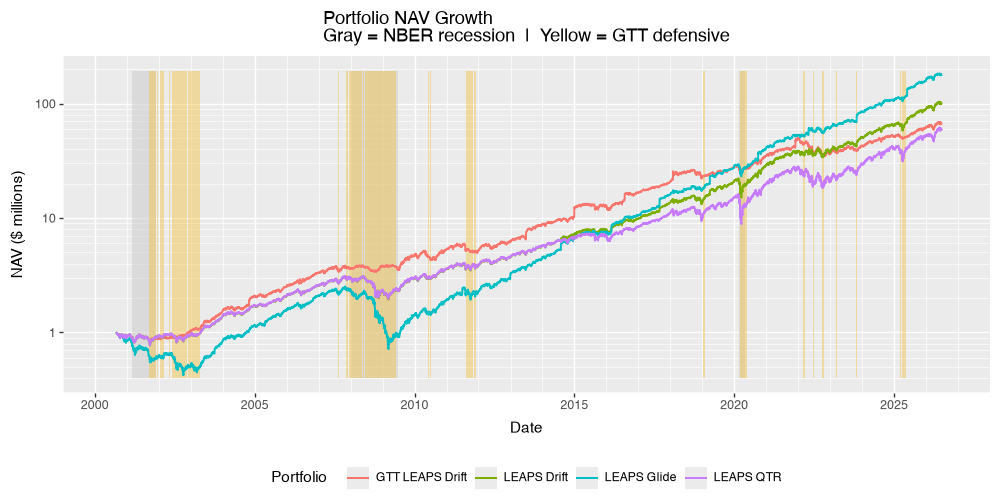
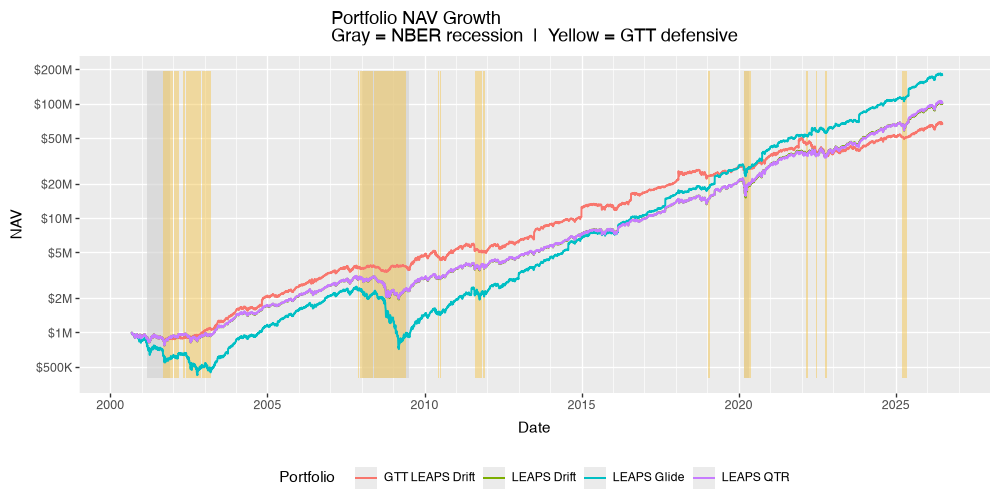
v1.3.0

diff --git a/examples/backtesting/gtt_leaps.py b/examples/backtesting/gtt_leaps.py
@@ -7,7 +7,7 @@ then prints a side-by-side-by-side performance comparison and saves a NAV growth
 to outputs/figures/gtt_comparison_nav.png.
 
 Usage:
-    uv run examples/gtt_leaps.py 2>&1 | tee outputs/gtt_example.log
+    uv run examples/backtesting/gtt_leaps.py 2>&1 | tee outputs/gtt_example.log
 
 Notes:
     - Requires FRED_API_KEY in the environment (or .env) for UNRATE data.

diff --git a/examples/backtesting/basic_gtt.py b/examples/backtesting/basic_gtt.py
@@ -6,7 +6,7 @@ then prints a side-by-side performance comparison and saves a NAV growth chart
 to outputs/figures/gtt_comparison_nav.png.
 
 Usage:
-    uv run examples/basic_gtt.py 2>&1 | tee outputs/gtt_example.log
+    uv run examples/backtesting/basic_gtt.py 2>&1 | tee outputs/gtt_example.log
 
 Notes:
     - Requires FRED_API_KEY in the environment (or .env) for UNRATE data.

diff --git a/tests/test_backtest_integration.py b/tests/test_backtest_integration.py
@@ -724,7 +724,7 @@ class TestWhipsawMultiRegime:
 _FIXTURE_PATH = "data/backtest_fixture.parquet"
 _UNRATE_PATH = "data/unrate_fixture.parquet"
 
-# Config mirrors examples/gtt_leaps.py: 6-asset portfolio with VTI_LEAPS
+# Config mirrors examples/backtesting/gtt_leaps.py: 6-asset portfolio with VTI_LEAPS
 _REAL_WEIGHTS = {
     "VTI": 0.0,
     "VXUS": 0.15,

diff --git a/README.md b/README.md
@@ -1,11 +1,31 @@
 # finance
 
+[![CI](https://github.com/alexWhitworth/finance/actions/workflows/ci.yml/badge.svg)](https://github.com/alexWhitworth/finance/actions/workflows/ci.yml)
+[![License: MIT](https://img.shields.io/badge/License-MIT-yellow.svg)](LICENSE)
+![Python 3.13+](https://img.shields.io/badge/python-3.13%2B-blue.svg)
+
 A Python library for backtesting and managing multi-asset portfolios. It includes optional
-synthetic leverage via DITM VTI LEAPS and a macro-economic based market timing signal.
+synthetic leverage via DITM VTI LEAPS and a macroeconomic market-timing signal. A live portfolio
+management layer (NAV breakdown, weight-drift, rebalance simulation, LEAPS greeks) and a LEAPS
+DCA entry-timing signal round out the toolkit for deploying and managing capital over time.
+
+## Contents
+
+- [tl;dr (for most investors)](#tldr-for-most-investors)
+- [Motivation](#motivation)
+- [Features](#features)
+- [Setup + Development](#setup--development)
+- [Usage](#usage)
+  - [Quickstart](#quickstart)
+  - [Runnable examples](#runnable-examples)
+  - [Cookbook](#cookbook)
+  - [Extensions](#extensions)
+- [References](#references)
+- [License](#license)
 
 ## tl;dr (for most investors):
 
-From extensive back tests and analyses when building this library, the following guidance
+From extensive backtests and analyses when building this library, the following guidance
 applies to most investors. When paired with the multi-asset portfolios defined in `examples/`,
 the result is handily beating standard institutional frameworks (eg. 60/40, 80/20, 
 All-Weather, etc):
@@ -15,21 +35,26 @@ All-Weather, etc):
     - `GlidepathConfig` has better terminal NAV and late-stage wealth preservation. Preferred
     for dynamic lifetime de-leveraging (multi-decade wealth generation), but suffers from
     sequence-of-returns risk
-2. Use LEAPS leverage! But solely in `AccountType.TAX_SHELTERED` accounts. There is major tax
+2. Use LEAPS leverage. But solely in `AccountType.TAX_SHELTERED` accounts. There is major tax
 drag if in `AccountType.TAXABLE`.
 3. GTT (described below) should be discarded. GTT does a great job with macro-economic market 
 drawdowns (eg. GFC), but not monetary driven ones (eg. 2022). As a result, `GttConfig` is
 dominated by a multi-asset portfolio with leveraged equity.
-    - **WHY?** Timing the market requires being correct twice -- both exit and entry timing. 
+    - **WHY?** Timing the market requires being correct twice — both exit and entry timing. 
     GTT does a decent, but imperfect, job. Secondly, properly constructed multi-asset portfolios
     do a _better job._ 
     - The core aim of diversification is finding **multiple uncorrelated assets.** If achieved,
     this outperforms market timing, especially imperfect market timing.
 
+**Evidence:** see [`outputs/backtest_summary.md`](outputs/backtest_summary.md) and
+[`outputs/gtt_findings.md`](outputs/gtt_findings.md) for the analysis behind these conclusions.
+These are working notes from the most recent research pass, not a continuously maintained
+backtest archive — rerun the [examples](#runnable-examples) against current data to reproduce.
+
 ## Motivation
 
 The library is motivated by the desire to rigorously evaluate multi-asset portfolios within 
-a "Lifecycle Investing" framework. Optionally supports market timing signal for US equities. 
+a "Lifecycle Investing" framework. It optionally supports a market-timing signal for US equities. 
 
 Multi-asset portfolio construction follows standard Modern Portfolio Theory, All-Weather, 
 and/or Risk Parity frameworks:
@@ -51,6 +76,8 @@ and/or Risk Parity frameworks:
 
 ## Features
 
+### Backtesting & Analysis
+
 - **Performance metrics:** annualized return, max drawdown, Sharpe, Sortino, Calmar, Omega ratios,
 skew, and excess-kurtosis over full period and pre-defined crisis windows (GFC, COVID, 2022 rate 
 hike)
@@ -68,15 +95,29 @@ roll with LTCG preservation, and taxable vs. tax-sheltered scenarios
     for details_)
 - **Portfolio Volatility Forecasting/Attribution:** EWMA vol (λ=0.95), 36-month rolling weekly
 correlations, per-asset contribution table summing to 1
-- **Asset Splicing** - For commonly used ETFs (eg VTI, MUB), automatic splicing the the oldest 
-available time series of the asset (e.g. VGTSX, VWITX)
+- **Asset Splicing** — For commonly used ETFs (eg. VTI, MUB), automatic splicing the oldest
+available time series of the asset (eg. VGTSX, VWITX)
+- **Portfolio Weight Optimization:** grid-search across target-weight combinations through the
+same `run_backtest` pipeline, with side-by-side performance comparison and a risk/return
+Pareto-frontier chart
 - **Growth Trend Timing (GTT):** Empirically and theoretically justifiable market timing signal
 for US Equities. 
     - Requires a FRED API Key. [Request one here](https://fred.stlouisfed.org/docs/api/api_key.html).
     - Save your API key in a `.env` file `FRED_API_KEY=<your key>` so that `dotenv` can load it
 
+### Live Portfolio Management
+
+- **Live Portfolio Management:** bridge a completed backtest into a `LivePortfolio` — or
+hand-enter brokerage holdings and LEAPS contracts directly, no backtest required — for NAV
+breakdown, per-asset weight-drift, rebalance-plan simulation (QUARTERLY/DRIFT), and LEAPS
+position greeks
+- **LEAPS DCA Entry Signal:** multi-factor composite score (RSI, Stochastic %D, IV percentile,
+MACD) for timing new DITM LEAPS deployment, producing a tranche allocation (`alpha_t`) and a
+HOLD / TRANCHE / AGGRESSIVE_SWEEP action
 
 ## Setup + Development
+
+**Requires Python 3.13+.**
 
 ```bash
 # Install:
@@ -90,7 +131,8 @@ uv run ruff check src/ tests/  # lint
 uv run mypy src/               # type-check
 ```
 
-- **98.5% line coverage · ruff clean · mypy strict clean**
+- Tests, lint, and type-checking run in CI on every push/PR (badge above); coverage floor is
+enforced at 80% (`fail_under` in `pyproject.toml`) — current coverage runs well above that.
 - **Note:** No `mutmut` tests; limited `hypothesis`. Contributions welcomed!
 
 ## Usage
@@ -118,29 +160,126 @@ print(format_performance_table(report))
 plot_nav_growth({"My Portfolio": result}, output_path=Path("outputs/figures/nav.png"))
 ```
 
-**Runnable examples** (recommended: pipe to `tee`):
+### Runnable examples
+
+**Strongly recommended:** pipe to `tee`
 
 ```bash
-uv run examples/basic_backtest.py 2>&1 | tee basic_backtest.log
+uv run examples/backtesting/basic_backtest.py 2>&1 | tee basic_backtest.log
 
-uv run examples/basic_backtest.py           # full backtest + performance table + NAV chart
-uv run examples/basic_gtt.py                # GTT signal vs. buy-and-hold comparison
-uv run examples/leaps_tax.py.               # LEAPS overlay, taxable vs. tax-sheltered
-uv run examples/volatility_report.py        # vol contribution table + forward vol forecast
-uv run examples/crisis_analysis.py          # GFC / COVID / 2022 per-period metrics
-uv run examples/gtt_leaps.py                # GTT with Leaps. All rebalance rules
-uv run examples/portfolio_opt.py            # Optimization across multiple portfolio choices
+uv run examples/backtesting/basic_backtest.py           # full backtest + performance table + NAV chart
+uv run examples/backtesting/basic_gtt.py                # GTT signal vs. buy-and-hold comparison
+uv run examples/backtesting/leaps_tax.py                # LEAPS overlay, taxable vs. tax-sheltered
+uv run examples/backtesting/volatility_report.py        # vol contribution table + forward vol forecast
+uv run examples/backtesting/crisis_analysis.py          # GFC / COVID / 2022 per-period metrics
+uv run examples/backtesting/gtt_leaps.py                # GTT with Leaps. All rebalance rules
+uv run examples/backtesting/portfolio_opt.py            # Optimization across multiple portfolio choices
 
+uv run examples/portfolio_manage/backtest_bridge.py     # backtest -> LivePortfolio: NAV, drift, rebalance, greeks, vol
+uv run examples/portfolio_manage/manual_leaps_review.py # hand-entered holdings + LEAPS contracts, no backtest
+uv run examples/portfolio_manage/leaps_dca_signal.py    # LEAPS DCA entry signal + 12-month sweep
 ```
+
+### Cookbook
+
+API walkthroughs for features that are ready to use as-is — no extended rationale, just the call
+sequence. (For the research-backed design choices behind LEAPS leverage and market timing, see
+[Extensions](#extensions) below.)
+
+#### Live Portfolio Management
+
+`finance.portfolio_manager` bridges the backtest engine into a lightweight, user-constructible
+live-management layer. Two entry points into the same `LivePortfolio`:
+
+- `as_live_portfolio(result)` — convert a completed `BacktestResult` into a `LivePortfolio`
+(holdings, target weights, live LEAPS contracts, GTT regime) as of the last backtest date.
+- Construct `LivePortfolio(...)` directly from hand-entered brokerage holdings and
+`build_leaps_contract(...)` — a "cold start" with no backtest involved.
+
+From either path, the same pure-function pipeline applies:
+
+```python
+from finance import (
+    as_live_portfolio, compute_nav_breakdown, compute_holdings_view,
+    compute_rebalance_plan, compute_portfolio_greeks, compute_volatility_report,
+)
+from finance.portfolio_manager import compute_leaps_holdings_view
+from finance.leverage import RebalanceRule
+
+portfolio = as_live_portfolio(result)                 # or LivePortfolio(...) by hand
+nav = compute_nav_breakdown(portfolio, leaps_mtm=...)  # caller supplies LEAPS mark-to-market
+holdings = (*compute_holdings_view(portfolio, nav), *compute_leaps_holdings_view(portfolio, nav))
+plan = compute_rebalance_plan(
+    portfolio, nav, RebalanceRule.QUARTERLY, is_rebal_date=True, is_month_end=True
+)
+greeks = compute_portfolio_greeks(portfolio, spot=..., iv=...)
+vol_report = compute_volatility_report(portfolio, return_data)
+```
+
+`finance.figures` adds matching formatters: `format_nav_breakdown_table`, `format_holdings_table`,
+`format_trade_orders_table`, `format_contract_greeks_table`.
+
+- **Note:** `compute_rebalance_plan`'s `leaps_trim` fires whenever the rebalance actually
+triggers — QUARTERLY or DRIFT — not DRIFT alone, since QUARTERLY has no tolerance band and should
+always trim an overweight LEAPS sleeve back to target on its scheduled date.
+
+See [`examples/portfolio_manage/backtest_bridge.py`](examples/portfolio_manage/backtest_bridge.py)
+(backtest → live) and
+[`examples/portfolio_manage/manual_leaps_review.py`](examples/portfolio_manage/manual_leaps_review.py)
+(hand-entered holdings/contracts) for full runnable versions.
+
+#### LEAPS DCA Entry Signal
+
+`compute_leaps_dca_signal` scores whether now is a favorable time to deploy new capital into
+DITM LEAPS, combining four technical factors (RSI, Stochastic %D, IV percentile, MACD) into a
+single `entry_score` (0-100). The score is ranked against its own trailing history to produce a
+tranche allocation `alpha_t` and a `dca_action` of `HOLD` / `TRANCHE` / `AGGRESSIVE_SWEEP`.
+
+```python
+from finance import LeapsDcaSignal, compute_leaps_dca_signal
+from finance.data import build_price_data
+from finance.figures import format_leaps_dca_signal_table
+
+price_data = build_price_data(START, END, tickers=["VTI"], fetch_vol_indices=True, fetch_ohlcv=True)
+signal: LeapsDcaSignal = compute_leaps_dca_signal(price_data, "VTI", price_data.prices.index[-1])
+print(format_leaps_dca_signal_table(signal))
+```
+
+See [`examples/portfolio_manage/leaps_dca_signal.py`](examples/portfolio_manage/leaps_dca_signal.py)
+for the full runnable version, including a 12-month signal sweep.
+
+#### Portfolio Weight Optimization
+
+No dedicated optimizer — a grid-search sweep over target-weight combinations through the same
+`run_backtest` pipeline used everywhere else, compared side-by-side and plotted as a risk/return
+Pareto frontier.
+
+```python
+from finance.figures import compare_performance_table, plot_pareto
+
+reports = {}
+for name, weights in combinations.items():          # e.g. VXUS/GLD/KMLM/VGIT weight sweep
+    config = PortfolioConfig(target_weights=weights, initial_nav=INITIAL_NAV, ...)
+    result = run_backtest(return_data, price_data, config)
+    reports[name] = build_performance_report(result, price_data, return_data, vol_model)
+
+print(compare_performance_table(list(reports.items())))
+plot_pareto({k: r.full_period for k, r in reports.items()}, output_path=Path("outputs/figures/portfolio_opt_pareto.png"))
+```
+
+See [`examples/backtesting/portfolio_opt.py`](examples/backtesting/portfolio_opt.py) for the full
+grid-search sweep.
 
 ### Extensions
 
+Research-backed design choices — why each feature exists, not just how to call it.
+
 #### 1. Lifecycle Investing and LEAPS overlay
 
-Lifecycle Investing (_Ayers + Nalebuff (2010)_) show that it's prudent to make leveraged investments
+Lifecycle Investing (_Ayres + Nalebuff (2010)_) show that it's prudent to make leveraged investments
 when you're young. By smoothing dollar denominated stock exposure over your lifetime, investors
-reduce lifetime risk and increase lifetime returns. The authors aim to elevate the role of time 
-diversification to the same conversation as asset diversification.
+reduce lifetime risk and increase lifetime returns. The authors argue diversification across time
+deserves the same weight as diversification across assets.
 
 The suggested implementation is via [DITM LEAPs](https://www.strasmore.com/blog/deep-itm-leaps). 
 `finance` enables this via adding a `VTI_LEAPS` allocation key and a `LeapsConfig` to run 
@@ -162,12 +301,12 @@ config = PortfolioConfig(
 result = run_backtest(return_data, price_data, config)
 ```
 
-See [`examples/leaps_drift_rebalance.py`](examples/leaps_drift_rebalance.py) for taxable vs. 
+See [`examples/backtesting/leaps_tax.py`](examples/backtesting/leaps_tax.py) for taxable vs. 
 tax-sheltered comparison.
 
 #### 2. Growth and Trend Timing (GTT)
 
-GTT (_Philosophical Economics (2016)_) introduces a hybrid market-timing framework which uses
+GTT (_Philosophical Economics (2016)_) introduces a hybrid market-timing framework that uses
 the labor market as a lagging-turned-coincident indicator of broad economic contraction. Our
 implementation adds a ^VIX signal to capture sharp contractions such as the COVID market crash.
 
@@ -202,7 +341,7 @@ config = PortfolioConfig(
 result = run_backtest(return_data, price_data, config, gtt_signal=gtt_signal)
 ```
 
-See [`examples/basic_gtt.py`](examples/basic_gtt.py) for the full runnable version.
+See [`examples/backtesting/basic_gtt.py`](examples/backtesting/basic_gtt.py) for the full runnable version.
 
 ## References
 
@@ -226,3 +365,7 @@ See [`examples/basic_gtt.py`](examples/basic_gtt.py) for the full runnable versi
     note         = {Blog post}
 }
 ```
+
+## License
+
+MIT — see [LICENSE](LICENSE).
